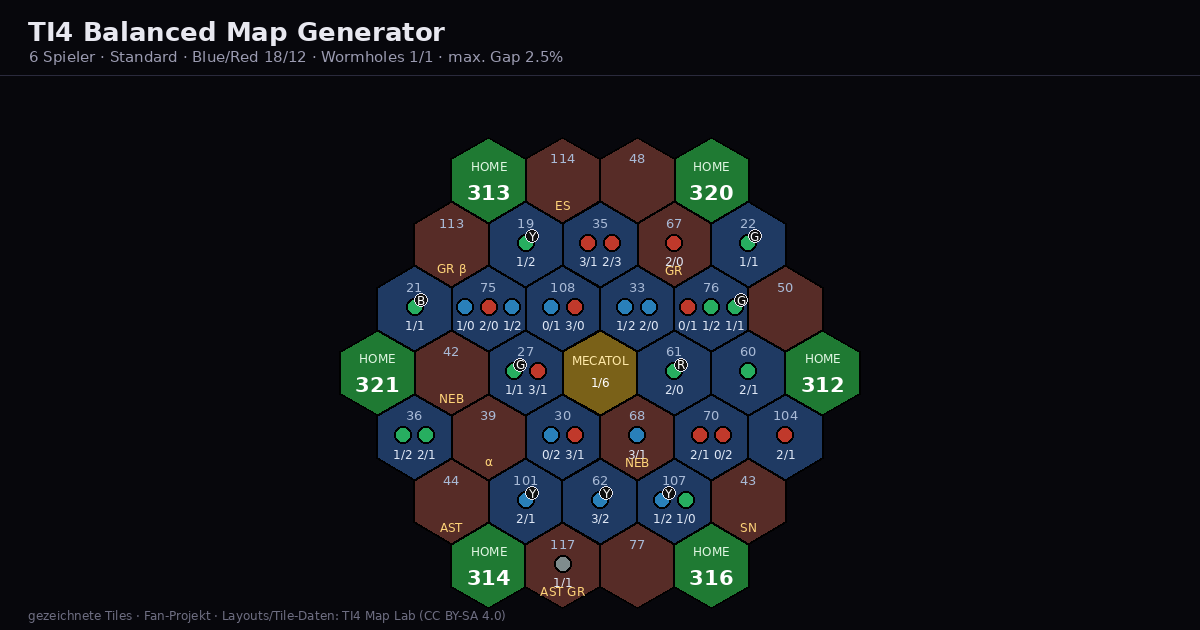
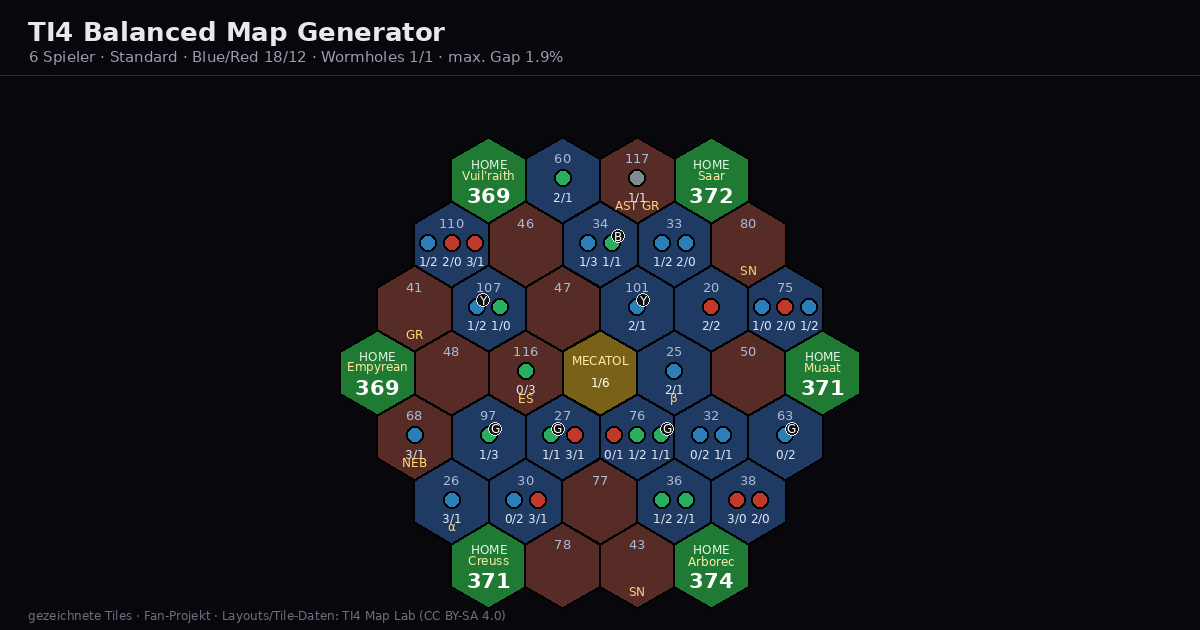
Add design themes (Classic / Retro 8-Bit / Biomech-Giger) and faction labels in screenshot
- Refactor render() to be theme-driven (THEMES palette: fills, outline width, font,
  tech badge, traits, optional scanline overlay); new Design dropdown
- Page-level theming via body[data-theme] CSS variables (retro, giger)
- tools/preview_themes.js renders previews/theme-*.svg from the app renderer itself
- export_map.js: sample uses contest mode with 6 factions; map.json carries short
  faction names; make_screenshot.py draws them on the home systems
- Fix awkward German wording ('Stufe steht in der Pille') -> 'steht unter der Karte'
- README: new 'Designs' section + preview command; screenshot note

Changed region(s): [[0.2775, 0.2111, 0.7092, 0.9651]]

diff --git a/app.js b/app.js
@@ -616,10 +616,28 @@
 
   // ---- Rendering ----
   function esc(s){ return s.replace(/&/g,"&amp;").replace(/</g,"&lt;").replace(/>/g,"&gt;"); }
-  const TRAIT_FILL = {};
-  TRAIT_FILL[PLANET_TRAITS.HAZARDOUS]="#c0392b";
-  TRAIT_FILL[PLANET_TRAITS.INDUSTRIAL]="#27ae60";
-  TRAIT_FILL[PLANET_TRAITS.CULTURAL]="#2980b9";
+  // ---- Designs (Themes) ----
+  const THEMES = {
+    classic: { label:"Classic (dunkel)", bg:"#07070c", panel:"#141420",
+      blue:"#1f3a63", red:"#572c27", home:"#1f7a33", rex:"#7a6118", closed:"#08080d", warp:"#0d0d16",
+      stroke:"#000000", sw:1, font:"sans-serif",
+      id:"#a9bad6", homeLabel:"#dff5e1", value:"#ffffff", rexLabel:"#ffe9a8", warpGlyph:"#5a5a78",
+      glyph:"#ffd479", trait:["#c0392b","#27ae60","#2980b9"], traitNone:"#7f8c8d",
+      techFill:"#101010", techStroke:"#e8e8f0", resinf:"#dfe7f5", scanlines:false },
+    retro: { label:"Retro 8-Bit", bg:"#0b0b1f", panel:"#1b1b3a",
+      blue:"#2b4bd8", red:"#c03028", home:"#2fb344", rex:"#d4a017", closed:"#000000", warp:"#12123a",
+      stroke:"#000000", sw:3, font:"monospace",
+      id:"#eaeaff", homeLabel:"#06310f", value:"#0b0b1f", rexLabel:"#3a2a00", warpGlyph:"#6a6aa0",
+      glyph:"#ffe14d", trait:["#e04a2f","#39d353","#3aa0ff"], traitNone:"#8a8ab0",
+      techFill:"#0b0b1f", techStroke:"#eaeaff", resinf:"#0b0b1f", scanlines:true },
+    giger: { label:"Biomech (Giger)", bg:"#08090a", panel:"#1c1e1a",
+      blue:"#2e3330", red:"#412a24", home:"#414636", rex:"#6b5a2a", closed:"#000000", warp:"#101214",
+      stroke:"#000000", sw:1.5, font:"sans-serif",
+      id:"#9aa08f", homeLabel:"#c9d6a8", value:"#e6ead8", rexLabel:"#d8c98a", warpGlyph:"#4a5450",
+      glyph:"#a6e22e", trait:["#8a3a2a","#5a7a4a","#4a6a7a"], traitNone:"#5a6157",
+      techFill:"#0c0d0c", techStroke:"#c9d6a8", resinf:"#c9d0b8", scanlines:false },
+  };
+  function currentTheme(){ const sel=($("theme")&&$("theme").value)||"classic"; return THEMES[sel]?sel:"classic"; }
   function sysGlyphs(sys){
     const g=[];
     if(sys.anomalies!==null) g.push(sys.anomalies.map(a=>ANOM_LABEL[a]).join("/"));
@@ -628,7 +646,8 @@
     if(STATION.indexOf(sys.id)>=0) g.push("⌂");
     return g;
   }
-  function render(st, place, vals){
+  function render(st, place, vals, themeKey){
+    const th = THEMES[themeKey] || THEMES.classic;
     const S=30, SQ=Math.sqrt(3);
     const proj=c=>[SQ*S*(c.x+c.z/2), 1.5*S*c.z];
     const pts={}; let minx=1e9,miny=1e9,maxx=-1e9,maxy=-1e9;
@@ -641,48 +660,50 @@
     for(const c of st.cells){
       const p=pts[c.key], cx=+(p[0]+ox).toFixed(1), cy=+(p[1]+oy).toFixed(1);
       const poly=vtx.map(v=>`${(cx+v[0]).toFixed(1)},${(cy+v[1]).toFixed(1)}`).join(" ");
-      let fill="#141420";
+      let fill=th.panel;
       const sys=place[c.key];
-      if(c.type===TYPE.HOME) fill="#1f7a33";
-      else if(c.type===TYPE.REX) fill="#7a6118";
-      else if(c.type===TYPE.CLOSED) fill="#08080d";
-      else if(c.type===TYPE.WARP) fill="#0d0d16";
-      else if(c.type===TYPE.OPEN && sys) fill = isRed(sys)?"#572c27":"#1f3a63";
-      fills += `<polygon points="${poly}" fill="${fill}" stroke="#000" stroke-width="1"/>`;
+      if(c.type===TYPE.HOME) fill=th.home;
+      else if(c.type===TYPE.REX) fill=th.rex;
+      else if(c.type===TYPE.CLOSED) fill=th.closed;
+      else if(c.type===TYPE.WARP) fill=th.warp;
+      else if(c.type===TYPE.OPEN && sys) fill = isRed(sys)?th.red:th.blue;
+      fills += `<polygon points="${poly}" fill="${fill}" stroke="${th.stroke}" stroke-width="${th.sw}"/>`;
 
-      const T=(y,txt,size,fillc,w)=>`<text x="${cx}" y="${y}" font-size="${size}" fill="${fillc}" text-anchor="middle" font-family="sans-serif"${w?' font-weight="bold"':''}>${txt}</text>`;
+      const T=(y,txt,size,fillc,w)=>`<text x="${cx}" y="${y}" font-size="${size}" fill="${fillc}" text-anchor="middle" font-family="${th.font}"${w?' font-weight="bold"':''}>${txt}</text>`;
       if(c.type===TYPE.HOME){
         const hi=st.homes.indexOf(c.key);
         const fac=(st.factionNames && st.factionNames[hi]) ? shortFaction(st.factionNames[hi]) : null;
-        content += T(cy-16, "HOME", 10, "#dff5e1")
-                 + (fac ? T(cy-4, esc(fac), 10, "#ffe9a8") : "")
-                 + T(cy+15, hv[c.key], 16, "#fff", true);
+        content += T(cy-16, "HOME", 10, th.homeLabel)
+                 + (fac ? T(cy-4, esc(fac), 10, th.glyph) : "")
+                 + T(cy+15, hv[c.key], 16, th.value, true);
       } else if(c.type===TYPE.REX){
-        content += T(cy-6, "MECATOL", 9, "#ffe9a8") + T(cy+9, "1/6", 10, "#fff");
+        content += T(cy-6, "MECATOL", 9, th.rexLabel) + T(cy+9, "1/6", 10, th.value);
       } else if(c.type===TYPE.WARP){
-        content += T(cy+5, "⟡", 14, "#5a5a78");
+        content += T(cy+5, "⟡", 14, th.warpGlyph);
       } else if(c.type===TYPE.OPEN && sys){
-        content += T(cy-17, sys.id, 9, "#a9bad6");
+        content += T(cy-17, sys.id, 9, th.id);
         const ps=sys.planets, n=ps.length;
         const spacing = n>1 ? Math.min(S*0.55, (S*1.15)/(n-1)) : 0;
         const discR = n>1 ? Math.min(8.5, spacing*0.42) : 8.5;
         const startX = cx - (n-1)*spacing/2;
         ps.forEach((pl,i)=>{
           const px=+(startX+i*spacing).toFixed(1), py=+(cy-2).toFixed(1);
-          const tf=(pl.traits&&pl.traits.length)?TRAIT_FILL[pl.traits[0]]:"#7f8c8d";
-          content += `<circle cx="${px}" cy="${py}" r="${discR.toFixed(1)}" fill="${tf}" stroke="#000" stroke-width="0.8"/>`;
+          const tf=(pl.traits&&pl.traits.length)?(th.trait[pl.traits[0]]||th.traitNone):th.traitNone;
+          content += `<circle cx="${px}" cy="${py}" r="${discR.toFixed(1)}" fill="${tf}" stroke="${th.stroke}" stroke-width="${(th.sw*0.8).toFixed(2)}"/>`;
           if(pl.tech_specialties && pl.tech_specialties.length){
             const bx=(px+discR*0.75).toFixed(1), by=(py-discR*0.75).toFixed(1);
-            content += `<circle cx="${bx}" cy="${by}" r="4.2" fill="#101010" stroke="#e8e8f0" stroke-width="0.6"/>`
-                     + `<text x="${bx}" y="${(+by+2.2).toFixed(1)}" font-size="6" fill="#fff" text-anchor="middle" font-family="sans-serif">${TECH_LETTER[pl.tech_specialties[0]]||""}</text>`;
+            content += `<circle cx="${bx}" cy="${by}" r="4.2" fill="${th.techFill}" stroke="${th.techStroke}" stroke-width="0.6"/>`
+                     + `<text x="${bx}" y="${(+by+2.2).toFixed(1)}" font-size="6" fill="${th.value}" text-anchor="middle" font-family="${th.font}">${TECH_LETTER[pl.tech_specialties[0]]||""}</text>`;
           }
-          content += `<text x="${px}" y="${(py+discR+8).toFixed(1)}" font-size="7.5" fill="#dfe7f5" text-anchor="middle" font-family="sans-serif">${pl.resources}/${pl.influence}</text>`;
+          content += `<text x="${px}" y="${(py+discR+8).toFixed(1)}" font-size="7.5" fill="${th.resinf}" text-anchor="middle" font-family="${th.font}">${pl.resources}/${pl.influence}</text>`;
         });
         const g=sysGlyphs(sys);
-        if(g.length) content += T(cy+21, g.join(" "), 8, "#ffd479");
+        if(g.length) content += T(cy+21, g.join(" "), 8, th.glyph);
       }
     }
-    return `<svg xmlns="http://www.w3.org/2000/svg" width="${wd|0}" height="${ht|0}" viewBox="0 0 ${wd|0} ${ht|0}"><rect width="100%" height="100%" fill="#07070c"/>${fills}${content}</svg>`;
+    const scanDefs = th.scanlines ? `<defs><pattern id="scan" width="4" height="4" patternUnits="userSpaceOnUse"><rect width="4" height="2" fill="#000000" opacity="0.16"/></pattern></defs>` : "";
+    const scanRect = th.scanlines ? `<rect width="100%" height="100%" fill="url(#scan)"/>` : "";
+    return `<svg xmlns="http://www.w3.org/2000/svg" width="${wd|0}" height="${ht|0}" viewBox="0 0 ${wd|0} ${ht|0}">${scanDefs}<rect width="100%" height="100%" fill="${th.bg}"/>${fills}${content}${scanRect}</svg>`;
   }
 
   // ---- Map-String & Statistik ----
@@ -716,6 +737,11 @@
     const sel=$("evaluator"); sel.innerHTML="";
     default_evaluators.forEach((e,i)=>{ const o=document.createElement("option"); o.value=String(i); o.textContent=e.title; sel.appendChild(o); });
     sel.value=String(IDX_JOE);   // Anzeige standardmäßig Joebrew (Pipeline endet auf Joebrew)
+  }
+  function fillThemes(){
+    const sel=$("theme"); if(!sel) return; sel.innerHTML="";
+    Object.keys(THEMES).forEach(kk=>{ const o=document.createElement("option"); o.value=kk; o.textContent=THEMES[kk].label; sel.appendChild(o); });
+    sel.value="classic";
   }
   function setStatus(t){ $("status").textContent=t; }
 
@@ -775,7 +801,8 @@
     const gaps=prep.map(E=>range(valsE(place,E,st.homes,st.rexKey)));
     const rel=gapsRel(place, prep, st.homes, st.rexKey);
     const maxRel=Math.max.apply(null,rel);
-    $("map").innerHTML=render(st,place,vals);
+    $("map").innerHTML=render(st,place,vals,currentTheme());
+    if(typeof document!=="undefined" && document.body) document.body.setAttribute("data-theme", currentTheme());
     $("mapstring").value=mapString(st,place);
     let pills =
       `<span class="pill">Blue/Red <b>${s.blue}/${s.red}</b></span>`+
@@ -868,6 +895,10 @@
     if(!cur) return;
     paint();
   }
+  function onThemeChange(){
+    if(typeof document!=="undefined" && document.body) document.body.setAttribute("data-theme", currentTheme());
+    if(cur) paint();
+  }
 
   function downloadPNG(){
     if(!cur){ setStatus("Erst generieren."); return; }
@@ -891,6 +922,7 @@
   $("players").addEventListener("change", ()=>{ fillLayouts(); fillFactions(); });
   $("ratio").addEventListener("input", ()=>{ $("ratioVal").textContent=$("ratio").value; });
   $("evaluator").addEventListener("change", onEvaluatorChange);
+  if($("theme")) $("theme").addEventListener("change", onThemeChange);
   $("generate").addEventListener("click", generate);
   $("improve").addEventListener("click", improve);
   $("png").addEventListener("click", downloadPNG);
@@ -898,8 +930,9 @@
   if($("useFactions")) $("useFactions").addEventListener("change", fillFactions);
   ["base","pok","te"].forEach(id=>{ if($(id)) $(id).addEventListener("change", fillFactions); });
 
-  fillLayouts(); fillEvaluators(); fillFactions();
+  fillLayouts(); fillEvaluators(); fillFactions(); fillThemes();
+  if(typeof document!=="undefined" && document.body) document.body.setAttribute("data-theme", currentTheme());
   setStatus("Bereit. „Karte generieren“ klicken.");
 
-  if(typeof window!=="undefined"){ window.__ti4 = { buildState, buildPool, chooseTiles, balanceWormholes, generateFull, generateRounds, hillClimbAll, climbOne, bankClimb, perturb, gapsRel, oneSided, valsE, prepareEvals, randomFill, computeVals, computeHomeW, sysConflicts, render, mapString, stats, range, mulberry32, makeEval, evalUnder, evSlice, evJoe, isRed, isBlue, sysGlyphs, TECH_LETTER, ANOM_LABEL, LAYOUTS, SYS, default_evaluators, FACTIONS, factionNeed, hasFeature, featureDemand, featureReport, missingFeatures, reachPositions }; }
+  if(typeof window!=="undefined"){ window.__ti4 = { buildState, buildPool, chooseTiles, balanceWormholes, generateFull, generateRounds, hillClimbAll, climbOne, bankClimb, perturb, gapsRel, oneSided, valsE, prepareEvals, randomFill, computeVals, computeHomeW, sysConflicts, render, mapString, stats, range, mulberry32, makeEval, evalUnder, evSlice, evJoe, isRed, isBlue, sysGlyphs, TECH_LETTER, ANOM_LABEL, LAYOUTS, SYS, default_evaluators, FACTIONS, factionNeed, hasFeature, featureDemand, featureReport, missingFeatures, reachPositions, THEMES, shortFaction }; }
 })();

diff --git a/tools/preview_themes.js b/tools/preview_themes.js
@@ -1,0 +1,28 @@
+// tools/preview_themes.js - rendert eine Beispielkarte in allen Designs als SVG nach previews/.
+const fs=require("fs"),vm=require("vm"),path=require("path"),ROOT=path.join(__dirname,"..");
+function makeEl(){ return { value:"6", checked:true, style:{}, className:"", disabled:false, href:"", innerHTML:"", textContent:"", addEventListener(){}, select(){}, appendChild(){}, querySelectorAll(){ return []; }, options:[], selectedIndex:0 }; }
+const els={}; const document={ getElementById(id){ return els[id]||(els[id]=makeEl()); }, createElement(){ return makeEl(); }, body:{ setAttribute(){} } };
+const window={ setTimeout, console };
+const ctx={ console, document, window, navigator:{clipboard:{writeText(){}}}, performance:{now:()=>Date.now()}, setTimeout, Math, Object, Array, String, Number, Date, Image:function(){} };
+vm.createContext(ctx);
+vm.runInContext(fs.readFileSync(path.join(ROOT,"data.js"),"utf8"),ctx);
+vm.runInContext(fs.readFileSync(path.join(ROOT,"app.js"),"utf8"),ctx);
+const T=ctx.window.__ti4;
+
+const FAC=["The Embers of Muaat","The Clan of Saar","The Empyrean","The Vuil'raith Cabal","The Ghosts of Creuss","The Arborec"];
+const title="6-Player";
+const pool=T.buildPool(true,true,true);
+const nOpen=T.buildState(title,pool,T.evSlice()).opens.length;
+const r=T.generateRounds(title, pool, 0.60, true, T.mulberry32(3), Math.min(10000,3500+nOpen*70), 0.02, 4, FAC, true);
+if(!r || r.error) throw new Error("keine Karte");
+const st=r.st, place=r.res.place;
+const vals=T.valsE(place, r.prep[T.default_evaluators.findIndex(e=>e.title==="Joebrew")], st.homes, st.rexKey);
+
+const dir=path.join(ROOT,"previews"); fs.mkdirSync(dir,{recursive:true});
+for(const key of Object.keys(T.THEMES)){
+  const svg=T.render(st, place, vals, key);
+  const f=path.join(dir, "theme-"+key+".svg");
+  fs.writeFileSync(f, svg);
+  console.log("preview:", path.relative(ROOT,f), svg.length, "bytes", "|", T.THEMES[key].label);
+}
+console.log("map string:", T.mapString(st, place));

diff --git a/style.css b/style.css
@@ -1,7 +1,7 @@
 * { box-sizing: border-box; }
 :root{
   --bg:#0a0a12; --panel:#14141f; --panel2:#1b1b2a; --line:#2a2a3d;
-  --fg:#e8e8f0; --muted:#9a9ab0; --accent:#3f6fb5; --accent2:#b8912a;
+  --fg:#e8e8f0; --muted:#9a9ab0; --accent:#3f6fb5; --accent2:#b8912a; --mapbg:#07070c;
 }
 html,body{ margin:0; background:var(--bg); color:var(--fg);
   font-family:system-ui,Segoe UI,Roboto,Helvetica,Arial,sans-serif; }
@@ -57,7 +57,7 @@ button[disabled]{ opacity:.6; cursor:default; }
 .pill.warn{ border-color:#b8912a; }
 .pill.bad{ border-color:#c0392b; }
 
-.mapbox{ background:#07070c; border:1px solid var(--line); border-radius:10px;
+.mapbox{ background:var(--mapbg); border:1px solid var(--line); border-radius:10px;
   overflow:auto; padding:6px; }
 .mapbox svg{ display:block; }
 
@@ -70,3 +70,22 @@ button[disabled]{ opacity:.6; cursor:default; }
 .fan a{ color:#8ab4f8; }
 
 @media (max-width:820px){ main{ flex-direction:column; } .panel{ width:100%; } }
+
+/* ---- Designs (umschaltbar) ---- */
+body[data-theme="retro"]{
+  --bg:#0b0b1f; --panel:#161634; --panel2:#1b1b3a; --line:#2b2b55;
+  --fg:#eaeaff; --muted:#9a9ac8; --accent:#2b4bd8; --accent2:#d4a017; --mapbg:#0b0b1f;
+  font-family:ui-monospace,Menlo,Consolas,monospace;
+}
+body[data-theme="retro"] header h1{ letter-spacing:1.5px; }
+body[data-theme="retro"] .pill{ border-radius:6px; }
+body[data-theme="retro"] button,.btn{ border-width:2px; border-radius:4px; }
+
+body[data-theme="giger"]{
+  --bg:#08090a; --panel:#14160f; --panel2:#1c1e1a; --line:#2f332c;
+  --fg:#e6ead8; --muted:#98a08e; --accent:#5a6b3a; --accent2:#a6e22e; --mapbg:#08090a;
+}
+body[data-theme="giger"] header{ border-bottom-color:#3a4034; }
+body[data-theme="giger"] button.primary{ background:#4a5a30; border-color:#6b7d42; }
+body[data-theme="giger"] .pill.good{ border-color:#5d7a3a; }
+body[data-theme="giger"] .pill.warn{ border-color:#8a6d2a; }

diff --git a/index.html b/index.html
@@ -68,13 +68,18 @@
       <p class="note">Sichert je Fraktion das vorteilhafte Merkmal <b>in Reichweite</b> (≤2 Felder):
         Muaat→Supernova, Saar→Asteroidenfeld, Empyrean→Nebel, Vuil'raith→Gravitationsriss, Creuss→α/β-Wormhole.<br>
         Die Option „für Nachbarn erreichbar“ legt es so kontestiert wie möglich: eigenes + beide Nachbarn,
-        sonst eigenes + ein Nachbar, sonst nur eigenes (Stufe steht in der Pille). Eine Fraktion ist nur
-        einmal wählbar. Discordant-Stars-Fraktionen sind nicht enthalten.</p>
+        sonst eigenes + ein Nachbar, sonst nur eigenes – die erreichte Stufe steht unter der Karte.
+        Eine Fraktion ist nur einmal wählbar. Discordant-Stars-Fraktionen sind nicht enthalten.</p>
     </div>
 
     <div class="field">
       <label for="evaluator">Evaluator (Bewertung)</label>
       <select id="evaluator"></select>
+    </div>
+
+    <div class="field">
+      <label for="theme">Design</label>
+      <select id="theme"></select>
     </div>
 
     <div class="field">
@@ -95,8 +100,8 @@
         <li>Abbruch, sobald keine Bewertung mehr über 2&nbsp;% liegt (Dauer grob 4–10&nbsp;s).</li>
       </ol>
       <p>Legale Platzierung (keine zwei Anomalien bzw. gleichen Wormholes benachbart) und
-        Wormhole-Paare bleiben dabei immer erhalten. Ergebnis wird in den Pillen als
-        <b>Gap</b> je Bewertung und als <b>Einseitig</b> angezeigt.</p>
+        Wormhole-Paare bleiben dabei immer erhalten. Das Ergebnis steht unter der Karte als
+        <b>Gap</b> je Bewertung und als <b>Einseitig</b>.</p>
       <p>Mit <b>„Faktionen berücksichtigen“</b> wird zusätzlich je Fraktion das vorteilhafte
         Merkmal ins eigene Gebiet gelegt (Muaat→Supernova, Saar→Asteroidenfeld, Empyrean→Nebel,
         Vuil'raith→Gravitationsriss, Creuss→α/β-Wormhole) und während der Optimierung fixiert.

diff --git a/tools/export_map.js b/tools/export_map.js
@@ -16,10 +16,13 @@ const T = ctx.window.__ti4;
 const pool = T.buildPool(true, true, true);
 const evA = T.evSlice(), evB = T.evJoe();
 
+// Beispiel-Faktionen fuer die Vorschau/Screenshot (im App-Sinne: Spieler 1..n).
+const FAC = ["The Embers of Muaat","The Clan of Saar","The Empyrean","The Vuil'raith Cabal","The Ghosts of Creuss","The Arborec"];
+
 let winner = null;
 for(let seed=1; seed<=16; seed++){
   const rng = T.mulberry32(seed);
-  const r = T.generateRounds("6-Player", pool, 0.60, true, rng, 6000, 0.02, 4);
+  const r = T.generateRounds("6-Player", pool, 0.60, true, rng, 6000, 0.02, 4, FAC, true);
   if(!r || r.error) continue;
   if(!winner || r.mx < winner.mx){ winner = { st:r.st, place:r.res.place, mx:r.mx, rel:r.res.rel, seed:seed }; }
   if(winner.mx <= 0.02) break;
@@ -45,7 +48,8 @@ for(const pos in place){
 }
 const placeIds = {}; for(const pos in place) placeIds[pos] = place[pos].id;
 const valsB = T.evalUnder(st, place, evB);
-const homeValues = {}; st.homes.forEach((h,i)=>homeValues[h]=valsB[i]);
+const homeValues = {}; const factions = {};
+st.homes.forEach((h,i)=>{ homeValues[h]=valsB[i]; if(st.factionNames && st.factionNames[i]) factions[h]=T.shortFaction(st.factionNames[i]); });
 
 const out = {
   title: "TI4 Balanced Map Generator",
@@ -54,6 +58,7 @@ const out = {
   place: placeIds,
   systems: systems,
   homeValues: homeValues,
+  factions: factions,
   mapString: T.mapString(st, place),
 };
 fs.writeFileSync(path.join(__dirname,"map.json"), JSON.stringify(out));

diff --git a/tools/make_screenshot.py b/tools/make_screenshot.py
@@ -36,6 +36,7 @@ d.text((29, 48), data["subtitle"], font=F_SUB, fill=(154, 154, 176))
 d.line((0, HEAD - 1, W, HEAD - 1), fill=(42, 42, 61))
 
 cells = data["cells"]; place = data["place"]; systems = data["systems"]; hv = data["homeValues"]
+factions = data.get("factions", {})
 
 def proj(c, S):
     return (math.sqrt(3) * S * (c["x"] + c["z"] / 2.0), 1.5 * S * c["z"])
@@ -77,8 +78,11 @@ for c in cells:
 for c in cells:
     cx, cy = xy(c); t = c["type"]; key = "%d,%d,%d" % (c["x"], c["y"], c["z"]); sys = place.get(key)
     if t == 2:
-        ctext(cx, cy - 14, "HOME", F_SMALL, (223, 245, 225))
-        ctext(cx, cy + 12, hv.get(key, ""), F_HOMEV, (255, 255, 255))
+        ctext(cx, cy - 16, "HOME", F_SMALL, (223, 245, 225))
+        key = "%d,%d,%d" % (c["x"], c["y"], c["z"])
+        if factions.get(key):
+            ctext(cx, cy - 5, factions[key], F_SMALL, (255, 233, 168))
+        ctext(cx, cy + 15, hv.get(key, ""), F_HOMEV, (255, 255, 255))
     elif t == 3:
         ctext(cx, cy - 12, "MECATOL", F_MEC, (255, 233, 168))
         ctext(cx, cy + 10, "1/6", F_SMALL, (255, 255, 255))
